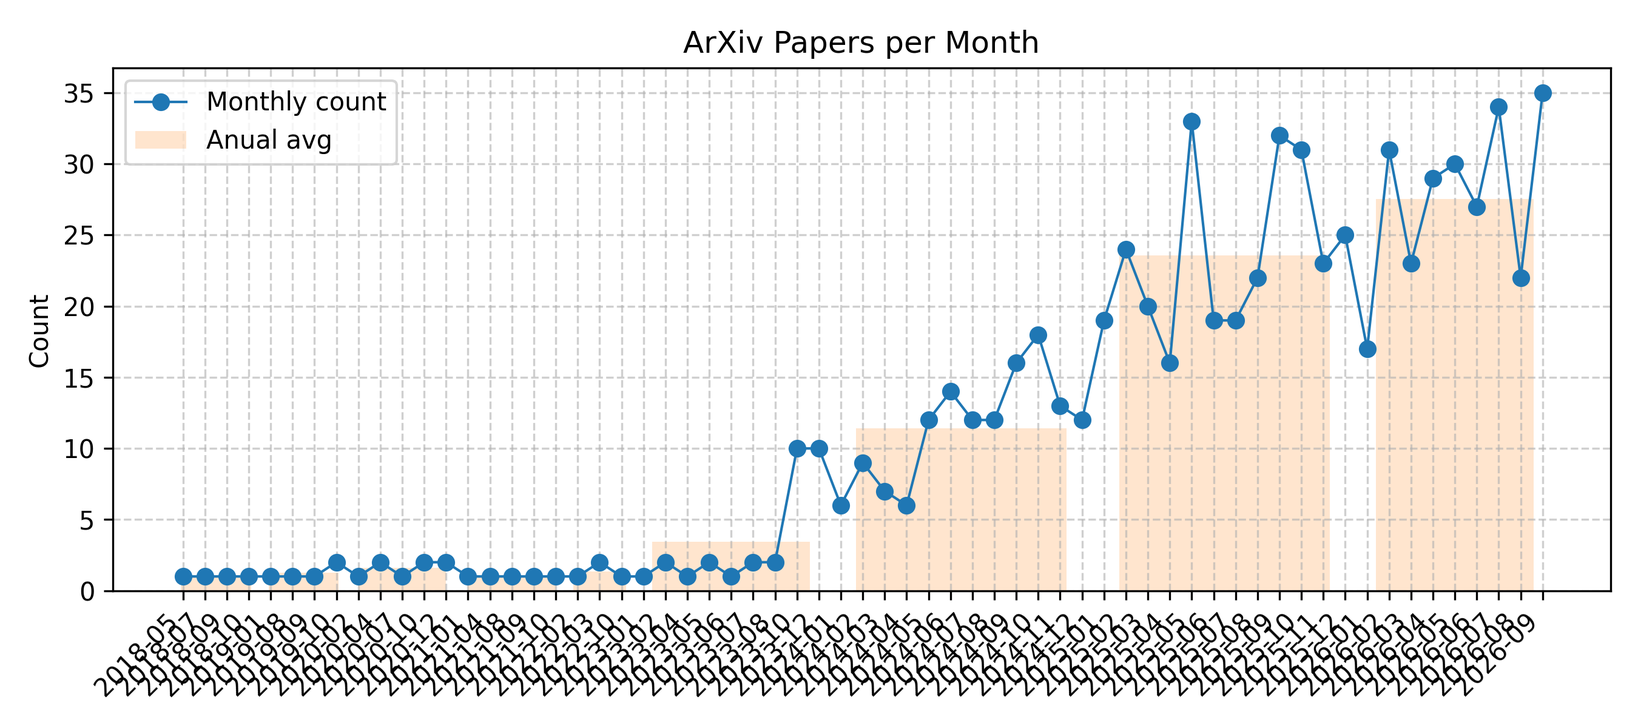
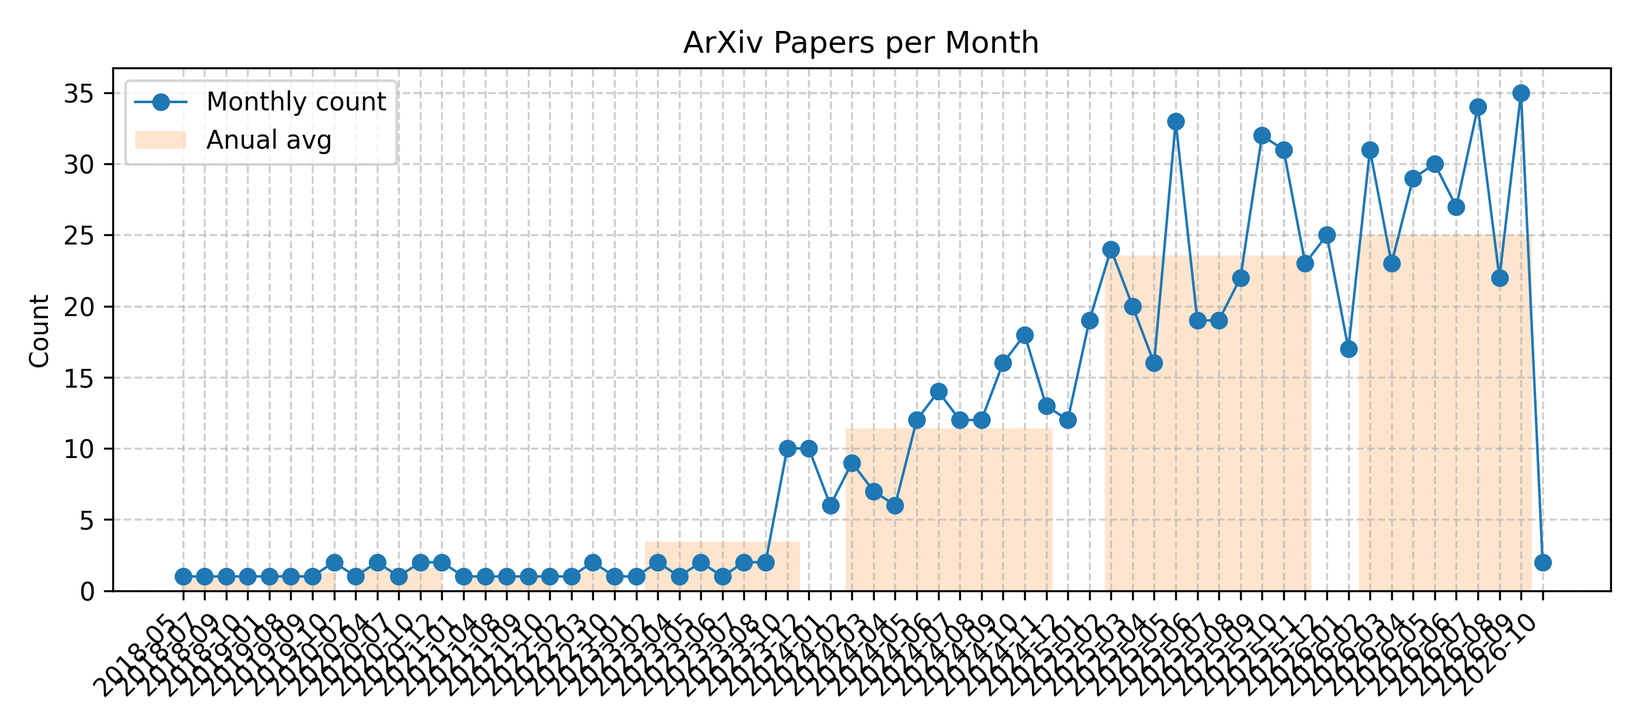
Github Action Automatic Update Mobile NPU LLM Arxiv Papers

Changed region(s): [[0.0622, 0.0925, 0.9644, 0.9558], [0.9333, 0.74, 0.9644, 0.8017]]

diff --git a/README.md b/README.md
@@ -5,7 +5,7 @@
 
 For more carefully curated articles, you can refer to this [repository](https://github.com/bansky-cl/Mobile_NPU_LLM_Papers).
 
-## Updated on 2026.10.04
+## Updated on 2026.10.05
 
 ![Monthly Trend](imgs/trend.png)
 
@@ -24,7 +24,7 @@ For more carefully curated articles, you can refer to this [repository](https://
 |**2026-04-08**|**ShadowNPU: System and Algorithm Co-design for NPU-Centric On-Device LLM Inference**|cs.PF, cs.AI, cs.LG| <details><summary>Full Abstract</summary>On-device running Large Language Models (LLMs) is nowadays a critical enabler towards preserving user privacy. We observe that the attention operator falls back from the special-purpose NPU to the general-purpose CPU/GPU because of quantization sensitivity in state-of-the-art frameworks. This fallback results in a degraded user experience and increased complexity in system scheduling. To this end, this paper presents shadowAttn, a system-algorithm codesigned sparse attention module with minimal reliance on CPU/GPU by only sparsely calculating the attention on a tiny portion of tokens. The key idea is to hide the overhead of estimating the important tokens with a NPU-based pilot compute. Further, shadowAttn proposes insightful techniques such as NPU compute graph bucketing, head-wise NPU-CPU/GPU pipeline and per-head fine-grained sparsity ratio to achieve high accuracy and efficiency. shadowAttn delivers the best performance with highly limited CPU/GPU resource; it requires much less CPU/GPU resource to deliver on-par performance of SoTA frameworks.</details>|[2508.16703v4](http://arxiv.org/abs/2508.16703v4)| null|
 |**2024-12-15**|**Fast On-device LLM Inference with NPUs**|cs.AI| <details><summary>Full Abstract</summary>On-device inference for Large Language Models (LLMs), driven by increasing privacy concerns and advancements of mobile-sized models, has gained significant interest. However, even mobile-sized LLMs (e.g., Gemma-2B) encounter unacceptably high inference latency, often bottlenecked by the prefill stage in tasks like screen UI understanding.   We present llm.npu, the first LLM inference system utilizing on-device Neural Processing Unit (NPU) offloading to reduce prefill latency. llm.npu enhances NPU offloading efficiency by re-constructing the prompt and model in three levels: (1) At prompt level, it divides variable-length prompts into multiple fixed-sized chunks while maintaining data dependencies; (2) At tensor level, it identifies and extracts significant outliers to run on the CPU/GPU in parallel with minimal overhead; (3) At block level, it schedules Transformer blocks in an out-of-order manner to the CPU/GPU and NPU based on their hardware affinity and sensitivity to accuracy. Compared to competitive baselines, llm.npu achieves 22.4x faster prefill speed and 30.7$\times$ energy savings on average, and up to 32.8x speedup in an end-to-end real-world application. For the first time, llm.npu achieves more than 1,000 tokens/sec prefilling for a billion-sized model.</details>|[2407.05858v2](http://arxiv.org/abs/2407.05858v2)| null|
 
-<p align=right>(<a href=#Updated-on-20261004>back to top</a>)</p>
+<p align=right>(<a href=#Updated-on-20261005>back to top</a>)</p>
 
 ## mobile_optimization
 
@@ -73,7 +73,7 @@ For more carefully curated articles, you can refer to this [repository](https://
 |**2020-11-30**|**Extreme Model Compression for On-device Natural Language Understanding**|cs.CL, cs.AI, cs.LG| <details><summary>Full Abstract</summary>In this paper, we propose and experiment with techniques for extreme compression of neural natural language understanding (NLU) models, making them suitable for execution on resource-constrained devices. We propose a task-aware, end-to-end compression approach that performs word-embedding compression jointly with NLU task learning. We show our results on a large-scale, commercial NLU system trained on a varied set of intents with huge vocabulary sizes. Our approach outperforms a range of baselines and achieves a compression rate of 97.4% with less than 3.7% degradation in predictive performance. Our analysis indicates that the signal from the downstream task is important for effective compression with minimal degradation in performance.</details>|[2012.00124v1](http://arxiv.org/abs/2012.00124v1)| null|
 |**2018-09-27**|**Adaptive Pruning of Neural Language Models for Mobile Devices**|cs.CL, cs.LG| <details><summary>Full Abstract</summary>Neural language models (NLMs) exist in an accuracy-efficiency tradeoff space where better perplexity typically comes at the cost of greater computation complexity. In a software keyboard application on mobile devices, this translates into higher power consumption and shorter battery life. This paper represents the first attempt, to our knowledge, in exploring accuracy-efficiency tradeoffs for NLMs. Building on quasi-recurrent neural networks (QRNNs), we apply pruning techniques to provide a "knob" to select different operating points. In addition, we propose a simple technique to recover some perplexity using a negligible amount of memory. Our empirical evaluations consider both perplexity as well as energy consumption on a Raspberry Pi, where we demonstrate which methods provide the best perplexity-power consumption operating point. At one operating point, one of the techniques is able to provide energy savings of 40% over the state of the art with only a 17% relative increase in perplexity.</details>|[1809.10282v1](http://arxiv.org/abs/1809.10282v1)| null|
 
-<p align=right>(<a href=#Updated-on-20261004>back to top</a>)</p>
+<p align=right>(<a href=#Updated-on-20261005>back to top</a>)</p>
 
 ## edge_inference
 
@@ -199,12 +199,13 @@ For more carefully curated articles, you can refer to this [repository](https://
 |**2025-04-21**|**Agile-Quant: Activation-Guided Quantization for Faster Inference of LLMs on the Edge**|cs.LG, cs.AI, cs.CL| <details><summary>Full Abstract</summary>Large Language Models (LLMs) stand out for their impressive performance in intricate language modeling tasks. However, their demanding computational and memory needs pose obstacles for broad use on edge devices. Quantization is then introduced to boost LLMs' on-device efficiency. Recent works show that 8-bit or lower weight quantization is feasible with minimal impact on end-to-end task performance, while the activation is still not quantized. On the other hand, mainstream commodity edge devices still struggle to execute these sub-8-bit quantized networks effectively. In this paper, we propose Agile-Quant, an activation-guided quantization framework for popular Large Language Models (LLMs), and implement an end-to-end accelerator on multiple edge devices for faster inference. Considering the hardware profiling and activation analysis, we first introduce a basic activation quantization strategy to balance the trade-off of task performance and real inference speed. Then we leverage the activation-aware token pruning technique to reduce the outliers and the adverse impact on attentivity. Ultimately, we utilize the SIMD-based 4-bit multiplier and our efficient TRIP matrix multiplication to implement the accelerator for LLMs on the edge. We apply our framework on different scales of LLMs including LLaMA, OPT, and BLOOM with 4-bit or 8-bit for the activation and 4-bit for the weight quantization. Experiments show that Agile-Quant achieves simultaneous quantization of model weights and activations while maintaining task performance comparable to existing weight-only quantization methods. Moreover, in the 8- and 4-bit scenario, Agile-Quant achieves an on-device speedup of up to 2.55x compared to its FP16 counterparts across multiple edge devices, marking a pioneering advancement in this domain. Code: https://github.com/shawnricecake/agile-quant</details>|[2312.05693v2](http://arxiv.org/abs/2312.05693v2)| null|
 |**2023-12-01**|**LinguaLinked: A Distributed Large Language Model Inference System for Mobile Devices**|cs.LG, cs.DC, cs.NI| <details><summary>Full Abstract</summary>Deploying Large Language Models (LLMs) locally on mobile devices presents a significant challenge due to their extensive memory requirements. In this paper, we introduce LinguaLinked, a system for decentralized, distributed LLM inference on mobile devices. LinguaLinked enables collaborative execution of the inference task across multiple trusted devices. LinguaLinked ensures data privacy by processing information locally. LinguaLinked uses three key strategies. First, an optimized model assignment technique segments LLMs and uses linear optimization to align segments with each device's capabilities. Second, an optimized data transmission mechanism ensures efficient and structured data flow between model segments while also maintaining the integrity of the original model structure. Finally, LinguaLinked incorporates a runtime load balancer that actively monitors and redistributes tasks among mobile devices to prevent bottlenecks, enhancing the system's overall efficiency and responsiveness. We demonstrate that LinguaLinked facilitates efficient LLM inference while maintaining consistent throughput and minimal latency through extensive testing across various mobile devices, from high-end to low-end Android devices. In our evaluations, compared to the baseline, LinguaLinked achieves an inference performance acceleration of $1.11\times$ to $1.61\times$ in single-threaded settings, $1.73\times$ to $2.65\times$ with multi-threading. Additionally, runtime load balancing yields an overall inference acceleration of $1.29\times$ to $1.32\times$.</details>|[2312.00388v1](http://arxiv.org/abs/2312.00388v1)| null|
 
-<p align=right>(<a href=#Updated-on-20261004>back to top</a>)</p>
+<p align=right>(<a href=#Updated-on-20261005>back to top</a>)</p>
 
 ## npu_acceleration
 
 |Date|Title|label|Abstract|PDF|Code|
 |---|---|---|---|---|---|
+|**2026-10-02**|**BitNest: Bit-Nested Speculative Decoding for Memory-Efficient LLM Inference Acceleration**|cs.AI| <details><summary>Full Abstract</summary>Speculative decoding accelerates autoregressive generation by using a lightweight draft to propose multiple tokens for parallel verification. However, existing methods often require an additional draft model or weight representation, introducing non-negligible memory overhead on resource-constrained devices. Self-speculative approaches reduce this overhead, yet still face trade-offs between draft quality, target quality, and storage efficiency. We propose BitNest, a bit-nested speculative decoding framework that embeds a low-precision draft directly into the higher-precision target representation. Instead of deriving a draft from a predefined target, BitNest first constructs a strong low-precision base and then recovers the higher-precision target through residual refinement, enabling both models to share a single physical weight representation. BitNest further extends this progressive-precision design to the KV cache for long-context inference. Across multiple 7B--8B edge-friendly LLMs and diverse workloads, BitNest achieves an average speculative acceptance rate of 95.2% while closely preserving higher-precision model quality, and delivers 1.48--1.61x end-to-end speedup over FP16 autoregressive decoding. On the LLaMA models supported by all representative self-speculative baselines, BitNest also achieves consistently competitive or higher decoding speedup.</details>|[2610.02800v1](http://arxiv.org/abs/2610.02800v1)| null|
 |**2026-09-29**|**Acceleration of Diffusion Language Model through Discrete Average Generator**|stat.ML, cs.AI, cs.LG| <details><summary>Full Abstract</summary>Discrete diffusion models and flow matching have emerged as powerful frameworks for generative modeling over discrete state spaces, yet efficient few-step generation remains a fundamental challenge. In this work, we introduce the Discrete Average Generator, a principled extension of MeanFlow to Continuous-Time Markov Chains (CTMCs). Analogously to how MeanFlow defines an average velocity field over a time interval in continuous spaces, we define an average generator as the normalized increment of the transition kernel over a time interval. We show that this average generator satisfies a self-consistency identity, which provides the foundation for our training objective. We further develop training strategies that align with the standard training paradigm of diffusion language models while keeping the resulting objective tractable. When projected onto per-coordinate marginals, the self-consistency identity admits a closed-form expression, enabling efficient training and inference. In Potts model simulations, our objective reduces the total variation distance of the $K$-step sampler by up to 67%. On OpenWebText, our method achieves the lowest generative perplexity among the evaluated methods for 8 to 64 sampling steps while enabling a $16\times$ acceleration, and achieves comparable performance to existing methods on ImageNet.</details>|[2609.38364v1](http://arxiv.org/abs/2609.38364v1)| null|
 |**2026-09-28**|**FastGuide: Accelerating Reward Guidance for Diffusion Large Language Models**|cs.CL, cs.LG| <details><summary>Full Abstract</summary>Gradient-based reward guidance provides a flexible way to use downstream reward models to control masked diffusion language models at inference time. However, its computational cost remains high as each decoding iteration incurs expensive diffusion model forward passes and reward model backpropagation steps. To address this, we introduce FastGuide, an adaptive hybrid of parallel and autoregressive decoding to accelerate reward guidance for diffusion language models. In analogy to parallel decoding, FastGuide amortizes the cost of reward model backpropagation by computing guidance once per decoding step and reusing it to generate multiple tokens. Within each decoding step, FastGuide makes diffusion forward passes autoregressive by unmasking tokens one at a time while efficiently recomputing token distributions after each unmasking by utilizing KV caching techniques and sparse recomputation of attention. Lastly, to adapt hybrid decoding to the model's confidence, FastGuide defers any token that the model is unconfident about under its recomputed distribution. Experiments on three reward benchmarks demonstrate that FastGuide is up to $4.4\times$ faster than sequential reward-guided decoding while retaining similar generation quality.</details>|[2609.36202v1](http://arxiv.org/abs/2609.36202v1)| null|
 |**2026-09-28**|**Fiona: Accelerating FHE Inference with Packing-Aware Ternary Weights**|cs.LG| <details><summary>Full Abstract</summary>Fully homomorphic encryption (FHE) enables neural network inference directly on encrypted inputs, but it remains orders of magnitude slower than plaintext in- ference. Applying the server's plaintext weights to encrypted activations involves plaintext-ciphertext multiplications (PMult) and accounts for more than half of inference time in recent systems. Ternary quantization can replace these multipli- cations with additions and subtractions, but the savings rarely materialize under packed execution. A single PMult applies a weight group fixed by the packing layout and can be avoided only when all its weights share the same ternary value. Ternarizing all groups, however, largely degrades accuracy.   We present FIONA, an offline optimizer that selectively ternarizes weights within a given packing layout based on the estimated effect of ternary conversion on the model's performance. FIONA encourages a shared ternary value within each weight group and retains full-precision weights for sensitive groups, so ternar- ized and full-precision paths coexist within a layer. It then compiles these hybrid operators exactly, applying common scaling factors once to accumulated inputs and reusing sums across outputs. Weight ternarization can also narrow the input ranges of downstream polynomials. FIONA fits lower-degree replacements under a cumulative accuracy budget, reducing multiplicative depth and bootstrapping. On VGG11, ViT, and BERT, FIONA reduces PMult operations by 53.4-79.5% and accelerates end-to-end encrypted inference by 2.38x, 1.68x, and 1.84x, re- spectively, with less than 1% accuracy loss across all three models.</details>|[2609.35352v1](http://arxiv.org/abs/2609.35352v1)| null|
@@ -716,12 +717,13 @@ For more carefully curated articles, you can refer to this [repository](https://
 |**2019-07-17**|**Understanding and Accelerating Particle-Based Variational Inference**|stat.ML, cs.LG| <details><summary>Full Abstract</summary>Particle-based variational inference methods (ParVIs) have gained attention in the Bayesian inference literature, for their capacity to yield flexible and accurate approximations. We explore ParVIs from the perspective of Wasserstein gradient flows, and make both theoretical and practical contributions. We unify various finite-particle approximations that existing ParVIs use, and recognize that the approximation is essentially a compulsory smoothing treatment, in either of two equivalent forms. This novel understanding reveals the assumptions and relations of existing ParVIs, and also inspires new ParVIs. We propose an acceleration framework and a principled bandwidth-selection method for general ParVIs; these are based on the developed theory and leverage the geometry of the Wasserstein space. Experimental results show the improved convergence by the acceleration framework and enhanced sample accuracy by the bandwidth-selection method.</details>|[1807.01750v4](http://arxiv.org/abs/1807.01750v4)| null|
 |**2019-10-17**|**Ergodic Inference: Accelerate Convergence by Optimisation**|cs.LG, stat.ML| <details><summary>Full Abstract</summary>Statistical inference methods are fundamentally important in machine learning. Most state-of-the-art inference algorithms are variants of Markov chain Monte Carlo (MCMC) or variational inference (VI). However, both methods struggle with limitations in practice: MCMC methods can be computationally demanding; VI methods may have large bias. In this work, we aim to improve upon MCMC and VI by a novel hybrid method based on the idea of reducing simulation bias of finite-length MCMC chains using gradient-based optimisation. The proposed method can generate low-biased samples by increasing the length of MCMC simulation and optimising the MCMC hyper-parameters, which offers attractive balance between approximation bias and computational efficiency. We show that our method produces promising results on popular benchmarks when compared to recent hybrid methods of MCMC and VI.</details>|[1805.10377v4](http://arxiv.org/abs/1805.10377v4)| null|
 
-<p align=right>(<a href=#Updated-on-20261004>back to top</a>)</p>
+<p align=right>(<a href=#Updated-on-20261005>back to top</a>)</p>
 
 ## mobile_llm_systems
 
 |Date|Title|label|Abstract|PDF|Code|
 |---|---|---|---|---|---|
+|**2026-10-02**|**EdgeAgent: Orchestrating On-Device LLM inference for End-User Multi-Agent Systems on CPU-GPU Unified Memory Architectures**|cs.DC, cs.MA| <details><summary>Full Abstract</summary>Emerging multi-agent LLMs demand privacy-preserving edge deployment, yet current inference systems struggle with these collaborative workflows. Specifically, the memory-bound decode phase causes severe bus contention on unified memory architectures (UMA), paralyzing naive CPU-GPU co-execution. Furthermore, speculative decoding in multi-agent workloads faces extreme variance in drafting difficulty, alternating between complex reasoning and predictable structured generation. Compounded by frequent tool-induced stalls, this highly fragmented execution severely underutilizes hardware and defeats traditional static batching.   We present EdgeAgent, a cross-layer inference system explicitly co-designed for edge UMA and multi-agent workloads. At the micro-architectural level, it bypasses rigid graph-compiler constraints to enable zero-copy UMA-aware tensor parallelism, utilizing asymmetric memory layouts to fully saturate both CPU and GPU compute units. At the scheduling level, it dynamically allocates draft budgets based on real-time sequence predictability to bound bandwidth waste. Concurrently, an asynchronous suspend-and-yield mechanism actively evicts stalled agents, ensuring continuous hardware saturation during unpredictable tool invocations.   Extensive evaluations on an Apple M4 SoC demonstrate that the UMA-aware execution alone contributes a 1.29x speedup over batched speculative decoding. Adding the agent-aware scheduling lifts the full EdgeAgent system to a 1.77x speedup under extreme tool-use latencies.</details>|[2610.03394v1](http://arxiv.org/abs/2610.03394v1)| null|
 |**2026-09-29**|**OmniTide: Co-Designing Algorithms and Systems for Efficient On-Device Omni-LLM Streaming**|cs.AI, cs.LG| <details><summary>Full Abstract</summary>On-device streaming omni-modal inference safeguards user privacy and eliminates prohibitive per-token API costs, but faces a critical bottleneck: the continuous influx of multimodal data rapidly exhausts constrained memory and compute budgets via monotonic KV cache growth. Existing sparse attention methods fall short, either incurring prohibitive online estimation latency or destroying interleaved cross-modal context, while failing to resolve physical memory fragmentation. We present OmniTide, the first algorithm-system co-design tailored for efficient on-device streaming omni-modal inference. Driven by the observation of modality-aware structural sparsity, OmniTide adopts a unit-based abstraction with two components: (1) At the algorithm level, OmniPick logically retains critical multimodal context based on unit boundaries and modality importance to preserve task accuracy; (2) At the system level, OmniPage physically partitions the cache by retention likelihood and dynamically compacts surviving sparse tokens, minimizing both memory fragmentation and data-movement overhead. Extensive evaluations across three streaming benchmarks and two consumer-device architectures show that OmniTide achieves up to $12.72\times$ kernel speedups and $2.40\times$ lower stream-loop latency. On StreamingBench, it improves accuracy by up to 18.0 percentage points over sliding-window baselines at comparable session cost. OmniPage further reduces the physical KV span by up to 26.7% relative to native logical eviction, unlocking real-time, infinite-context streaming on edge devices.</details>|[2609.34653v2](http://arxiv.org/abs/2609.34653v2)| null|
 |**2026-09-02**|**LeanStream: A Speculate-and-Refine Streaming Framework for Efficient on-Device LLM Inference**|cs.LG| <details><summary>Full Abstract</summary>On-device LLM inference is attractive for privacy and responsiveness, but remains challenging on mobile and embedded devices because model weights far exceed available DRAM. Prior systems exploit activation sparsity and offload weights to SSD or flash storage, but face a fundamental systems trade-off: accurate sparse execution decisions require the latest context, whereas efficient computation-I/O overlap requires early prediction. As a result, existing designs either serialize execution or incur redundant weight fetches, extra computation, and large cache overheads. We present LeanStream, a streaming speculate-and-refine framework for efficient on-device LLM inference. LeanStream progressively refines computation, loading, and cache-retention priorities using partial GPU results, enabling fine-grained overlap between GPU execution and storage I/O. We implement LeanStream on both mobile and embedded platforms. Compared with prior on-device LLM inference systems, LeanStream reduces memory usage by 4.8$\times$ to 7.5$\times$ at the best throughput achieved by prior work, while further improving token generation throughput by 1.6$\times$ to 2.1$\times$.</details>|[2609.03079v1](http://arxiv.org/abs/2609.03079v1)| null|
 |**2026-08-12**|**From Safety Documentation to Safety Knowledge Support: An Evidence-Grounded LLM Framework for Medical Devices**|cs.SE, cs.AI| <details><summary>Full Abstract</summary>Medical devices are becoming more software-intensive, connected, and AI-enabled. Their development requires risk-management evidence aligned with ISO 14971 and, for software, IEC 62304. This evidence must be kept consistent across requirements, design decisions, software changes, verification results, complaints, and post-market data. These tasks are costly and depend on scarce safety and domain experts.   Large language models (LLMs) may reduce parts of this effort because medical-device safety work is highly document-based. However, current LLM-based safety-engineering studies often address isolated methods, rely on generic prompting or public examples, and provide limited support for source links, traceability, uncertainty handling, lifecycle updates, and recorded expert review. This limits their use in regulated medical-device development.   This paper argues that the central research problem is not safety-text generation, but source-linked safety-knowledge support. We propose an evidence-grounded framework that connects device artifacts, controlled knowledge storage and retrieval, method-specific generation of candidate safety items, critique and uncertainty checks, and recorded expert review. The framework prepares, links, checks, and updates candidate safety artifacts for expert decision-making. It does not decide whether a device is safe and does not provide regulatory approval. We also outline an evaluation strategy using non-public or newly built medical-device case studies and expert reference analyses to assess coverage, correctness, relevance, traceability, duplicate rate, unsupported claims, and review effort.</details>|[2608.12025v1](http://arxiv.org/abs/2608.12025v1)| null|
@@ -764,7 +766,7 @@ For more carefully curated articles, you can refer to this [repository](https://
 |**2024-10-27**|**Large Language Models as Urban Residents: An LLM Agent Framework for Personal Mobility Generation**|cs.AI, cs.CL, cs.CY, cs.LG| <details><summary>Full Abstract</summary>This paper introduces a novel approach using Large Language Models (LLMs) integrated into an agent framework for flexible and effective personal mobility generation. LLMs overcome the limitations of previous models by effectively processing semantic data and offering versatility in modeling various tasks. Our approach addresses three research questions: aligning LLMs with real-world urban mobility data, developing reliable activity generation strategies, and exploring LLM applications in urban mobility. The key technical contribution is a novel LLM agent framework that accounts for individual activity patterns and motivations, including a self-consistency approach to align LLMs with real-world activity data and a retrieval-augmented strategy for interpretable activity generation. We evaluate our LLM agent framework and compare it with state-of-the-art personal mobility generation approaches, demonstrating the effectiveness of our approach and its potential applications in urban mobility. Overall, this study marks the pioneering work of designing an LLM agent framework for activity generation based on real-world human activity data, offering a promising tool for urban mobility analysis.</details>|[2402.14744v3](http://arxiv.org/abs/2402.14744v3)| null|
 |**2023-12-01**|**LinguaLinked: A Distributed Large Language Model Inference System for Mobile Devices**|cs.LG, cs.DC, cs.NI| <details><summary>Full Abstract</summary>Deploying Large Language Models (LLMs) locally on mobile devices presents a significant challenge due to their extensive memory requirements. In this paper, we introduce LinguaLinked, a system for decentralized, distributed LLM inference on mobile devices. LinguaLinked enables collaborative execution of the inference task across multiple trusted devices. LinguaLinked ensures data privacy by processing information locally. LinguaLinked uses three key strategies. First, an optimized model assignment technique segments LLMs and uses linear optimization to align segments with each device's capabilities. Second, an optimized data transmission mechanism ensures efficient and structured data flow between model segments while also maintaining the integrity of the original model structure. Finally, LinguaLinked incorporates a runtime load balancer that actively monitors and redistributes tasks among mobile devices to prevent bottlenecks, enhancing the system's overall efficiency and responsiveness. We demonstrate that LinguaLinked facilitates efficient LLM inference while maintaining consistent throughput and minimal latency through extensive testing across various mobile devices, from high-end to low-end Android devices. In our evaluations, compared to the baseline, LinguaLinked achieves an inference performance acceleration of $1.11\times$ to $1.61\times$ in single-threaded settings, $1.73\times$ to $2.65\times$ with multi-threading. Additionally, runtime load balancing yields an overall inference acceleration of $1.29\times$ to $1.32\times$.</details>|[2312.00388v1](http://arxiv.org/abs/2312.00388v1)| null|
 
-<p align=right>(<a href=#Updated-on-20261004>back to top</a>)</p>
+<p align=right>(<a href=#Updated-on-20261005>back to top</a>)</p>
 
 ## specific_papers
 
@@ -774,7 +776,7 @@ For more carefully curated articles, you can refer to this [repository](https://
 |**2025-10-04**|**Characterizing Mobile SoC for Accelerating Heterogeneous LLM Inference**|cs.DC, cs.AI, cs.LG| <details><summary>Full Abstract</summary>With the rapid advancement of artificial intelligence technologies such as ChatGPT, AI agents, and video generation, contemporary mobile systems have begun integrating these AI capabilities on local devices to enhance privacy and reduce response latency. To meet the computational demands of AI tasks, current mobile SoCs are equipped with diverse AI accelerators, including GPUs and Neural Processing Units (NPUs). However, there has not been a comprehensive characterization of these heterogeneous processors, and existing designs typically only leverage a single AI accelerator for LLM inference, leading to suboptimal use of computational resources and memory bandwidth.   In this paper, we first summarize key performance characteristics of heterogeneous processors, SoC memory bandwidth, etc. Drawing on these observations, we propose different heterogeneous parallel mechanisms to fully exploit both GPU and NPU computational power and memory bandwidth. We further design a fast synchronization mechanism between heterogeneous processors that leverages the unified memory architecture. By employing these techniques, we present HeteroInfer, the fastest LLM inference engine in mobile devices which supports GPU-NPU heterogeneous execution. Evaluation shows that HeteroInfer delivers a 1.34x to 6.02x end-to-end speedup over state-of-the-art GPU-only and NPU-only LLM engines, while maintaining negligible interference with other applications.</details>|[2501.14794v2](http://arxiv.org/abs/2501.14794v2)| null|
 |**2024-12-15**|**Fast On-device LLM Inference with NPUs**|cs.AI| <details><summary>Full Abstract</summary>On-device inference for Large Language Models (LLMs), driven by increasing privacy concerns and advancements of mobile-sized models, has gained significant interest. However, even mobile-sized LLMs (e.g., Gemma-2B) encounter unacceptably high inference latency, often bottlenecked by the prefill stage in tasks like screen UI understanding.   We present llm.npu, the first LLM inference system utilizing on-device Neural Processing Unit (NPU) offloading to reduce prefill latency. llm.npu enhances NPU offloading efficiency by re-constructing the prompt and model in three levels: (1) At prompt level, it divides variable-length prompts into multiple fixed-sized chunks while maintaining data dependencies; (2) At tensor level, it identifies and extracts significant outliers to run on the CPU/GPU in parallel with minimal overhead; (3) At block level, it schedules Transformer blocks in an out-of-order manner to the CPU/GPU and NPU based on their hardware affinity and sensitivity to accuracy. Compared to competitive baselines, llm.npu achieves 22.4x faster prefill speed and 30.7$\times$ energy savings on average, and up to 32.8x speedup in an end-to-end real-world application. For the first time, llm.npu achieves more than 1,000 tokens/sec prefilling for a billion-sized model.</details>|[2407.05858v2](http://arxiv.org/abs/2407.05858v2)| null|
 
-<p align=right>(<a href=#Updated-on-20261004>back to top</a>)</p>
+<p align=right>(<a href=#Updated-on-20261005>back to top</a>)</p>
 
 [contributors-shield]: https://img.shields.io/github/contributors/bansky-cl/mobile-npu-llm-paper-arxiv.svg?style=for-the-badge
 [contributors-url]: https://github.com/bansky-cl/mobile-npu-llm-paper-arxiv/graphs/contributors
